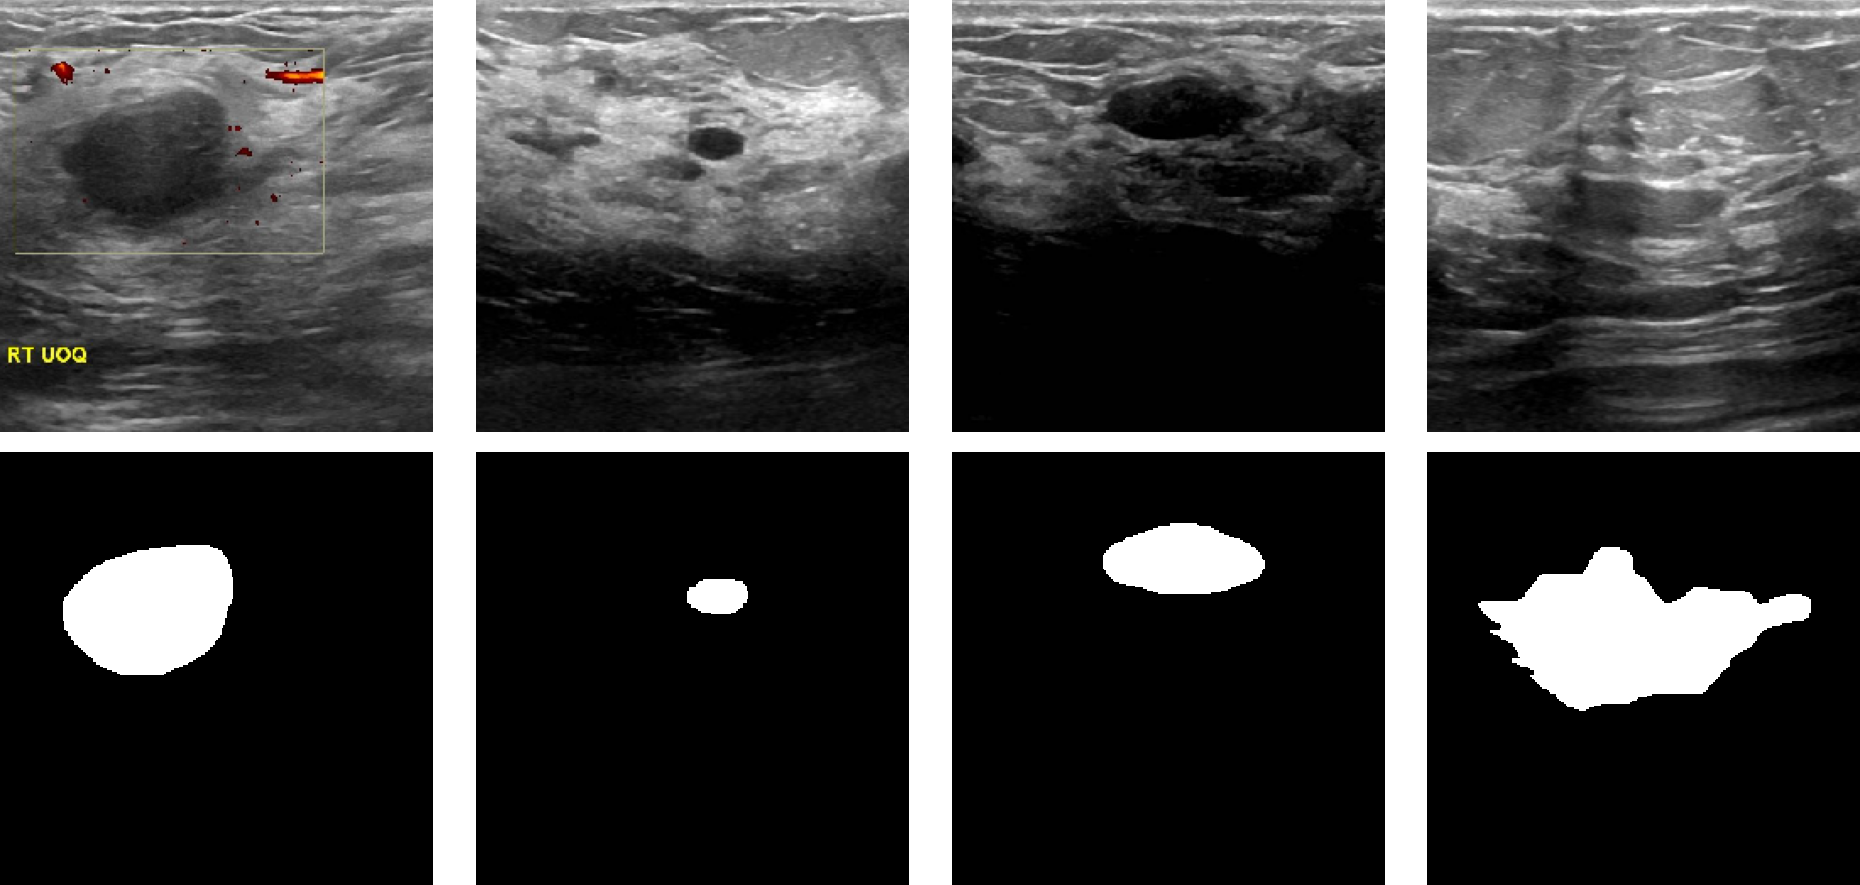
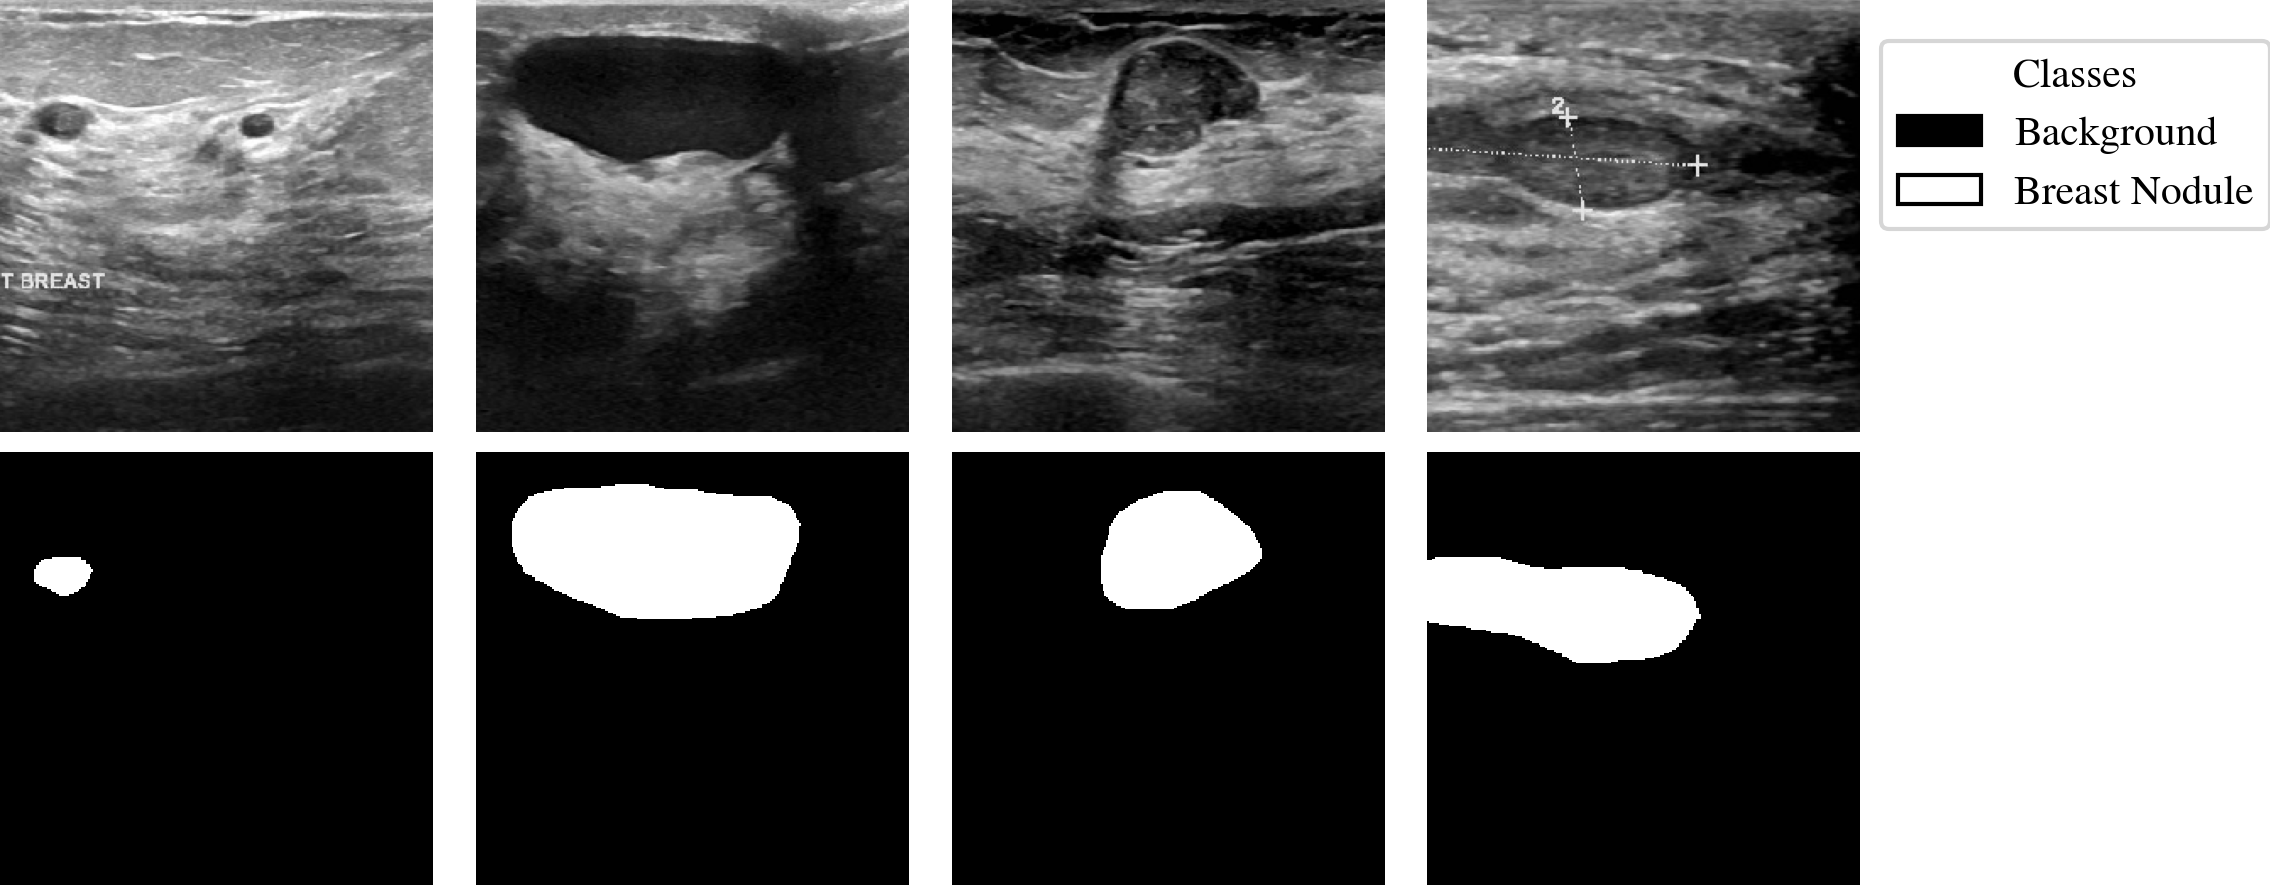
st++ predictions fix

diff --git a/SSLightning4Med/visualization/mask_image_augmentation.py b/SSLightning4Med/visualization/mask_image_augmentation.py
@@ -54,9 +54,8 @@ def cutout(
 #%%
 def pascal_color_map():
     cmap = [
-        [0, 0, 0]
-        # ,[255,255,255]
-        ,
+        [0, 0, 0],
+        # [255,255,255],
         [102, 102, 156],
         [190, 153, 153],
         [153, 153, 153],
@@ -116,7 +115,7 @@ f, ax = plt.subplots(2, 4, figsize=(8, 4))
 plt.subplots_adjust(wspace=0.1, hspace=0)
 for i in range(0, 4):
     # visulaize mask and image
-    image_aug, mask_aug, _ = dataset[i + 70]
+    image_aug, mask_aug, _ = dataset[i * 39 + 55]
     try:
         image_aug = cv2.cvtColor(image_aug, cv2.COLOR_GRAY2RGB)
     except Exception as e:
@@ -164,12 +163,34 @@ hippocampus_dict = {
     1: "Anterior",
     2: "Posterior",
 }
+melanoma_dict = {
+    0: "Background",
+    1: "Melanoma",
+}
+breast_dict = {
+    0: "Background",
+    1: "Breast Nodule",
+}
+pneumothorax_dict = {
+    0: "Background",
+    1: "Pneumothorax",
+}
 
 
 legend_elements = []
-legend_dict = {"zebrafish": zebra_dict, "multiorgan": organ_dict, "hippocampus": hippocampus_dict}[dataset_name]
+legend_dict = {
+    "zebrafish": zebra_dict,
+    "multiorgan": organ_dict,
+    "hippocampus": hippocampus_dict,
+    "melanoma": melanoma_dict,
+    "breastCancer": breast_dict,
+    "pneumothorax": pneumothorax_dict,
+}[dataset_name]
 for i in range(0, len(legend_dict)):
-    legend_elements.append(mpatches.Patch(facecolor=tuple(np.array(color_map2)[i] / 255.0), label=legend_dict[i]))
+
+    legend_elements.append(
+        mpatches.Patch(facecolor=tuple(np.array(color_map2)[i] / 255.0), label=legend_dict[i], edgecolor="black")
+    )
 
 # legend without overlap to axes
 plt.legend(handles=legend_elements, loc="upper left", bbox_to_anchor=(1, 2), ncol=1, title="Classes")

diff --git a/SSLightning4Med/models/train_stplusplus.py b/SSLightning4Med/models/train_stplusplus.py
@@ -69,12 +69,7 @@ class STPlusPlusModule(BaseModule):
         return {"loss": loss}
 
     def training_epoch_end(self, outputs: List[Dict[str, Tensor]]) -> None:
-        if (self.current_epoch + 1) in [
-            self.args.epochs // 3,
-            self.args.epochs * 2 // 3,
-            self.args.epochs,
-        ]:
-            self.checkpoints.append(deepcopy(self.net))
+        self.checkpoints.append(deepcopy(self.net))
 
     def predict_step(self, batch: List[Union[Tensor, Tuple[str]]], batch_idx: int) -> None:
         img, mask, id = batch
@@ -89,8 +84,14 @@ class STPlusPlusModule(BaseModule):
             )
         if self.mode == "select_reliable":
             preds = []
-            for model in self.checkpoints:
-                preds.append(self.oneHot(model(img)).to(torch.long))
+            # for model in self.checkpoints:
+            #     preds.append(self.oneHot(model(img)).to(torch.long))
+            pred = self.checkpoints[len(self.checkpoints) // 3](img)
+            preds.append(self.oneHot(pred).to(torch.long))
+            pred = self.checkpoints[len(self.checkpoints) * 2 // 3](img)
+            preds.append(self.oneHot(pred).to(torch.long))
+            pred = self.checkpoints[-1](img)
+            preds.append(self.oneHot(pred).to(torch.long))
             mIOU = []
             for i in range(len(preds) - 1):
                 metric = JaccardIndex(

diff --git a/SSLightning4Med/models/data_module_ew.py b/SSLightning4Med/models/data_module_ew.py
@@ -113,7 +113,7 @@ class SemiDataModule(pl.LightningDataModule):
         )
 
     def predict_dataloader(self) -> DataLoader:
-        transforms = self.base_transform() if self.val_transforms is None else self.val_transforms
+        transforms = self.base_transform() if self.pred_transforms is None else self.pred_transforms
         predict_dataset = BaseDatasetEW(
             root_dir=self.root_dir,
             id_list=self.train_id_dict["unlabeled"],

diff --git a/SSLightning4Med/train.py b/SSLightning4Med/train.py
@@ -232,6 +232,7 @@ def get_datamodule(args):
     )
 
     dataModule.val_transforms = augs.a_val_transforms()
+    dataModule.pred_transforms = augs.a_pred_transforms()
     dataModule.train_transforms = augs.a_train_transforms_weak()
     dataModule.train_transforms_unlabeled = (
         augs.a_train_transforms_strong_stplusplus()

diff --git a/SSLightning4Med/utils/augmentations.py b/SSLightning4Med/utils/augmentations.py
@@ -125,3 +125,11 @@ class Augmentations:
                 ToTensorV2(),
             ]
         )
+
+    def a_pred_transforms(self):
+        return A.Compose(
+            [
+                A.Normalize(self.mean, self.std),
+                ToTensorV2(),
+            ]
+        )
